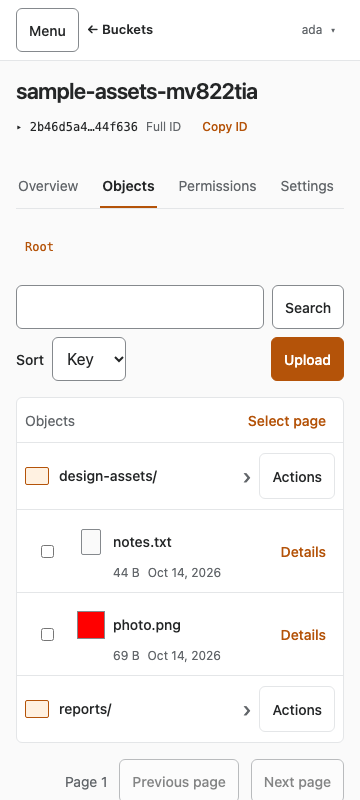
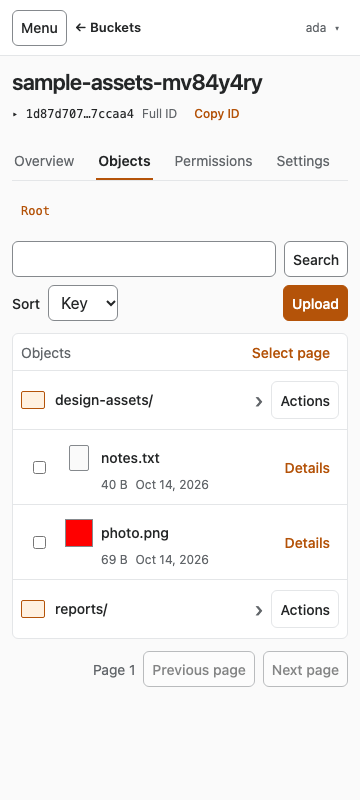
Refresh compact interface screenshots and token workflow guidance

diff --git a/docs/wiki/Admin-tokens.md b/docs/wiki/Admin-tokens.md
@@ -16,12 +16,14 @@ Open **Admin tokens** and inspect **This server**. The panel shows the current t
 
 The newly issued secret is available once. Closing the dialog removes it from the page, and it cannot be retrieved later. If it is lost, create a replacement token and revoke the unusable one.
 
+Use **Filter scope** to match group names or endpoint names without regard to case. Scroll within the compact scope list to reach more endpoints. The selected count includes scopes hidden by the filter; filtering does not clear selections. A group checkbox selects or clears the complete group, and **All** selects or clears every endpoint, regardless of the filter.
+
 Choosing **All** or every endpoint produces full administrative access and displays a warning. Token-management endpoints can themselves confer powerful access; choose them only when the consumer needs to administer tokens.
 
 ## Update or delete a token
 
 Find the token using **Filter admin tokens** and **Sort**. Filtering and sorting apply to the current page; use **Previous** and **Next** for additional pages.
 
-Open its **Actions** and choose **Edit**. Change name, expiration, and scope, then choose **Update token** and review the replacement confirmation. This updates those fields; it does not display a new secret.
+Open its **Actions** and choose **Edit**. The editor brings **Name** into view and focuses it. Change name, expiration, and scope, then choose **Update token** and review the replacement confirmation. This updates those fields; it does not display a new secret. Choose **Cancel** to close the editor and return focus to that token's **Edit** action.
 
 Use **Actions → Delete** and confirm to revoke a token. Before removing or restricting the token used by this UI server, provision its replacement and update the server's configuration. Otherwise later Garage admin operations can fail. Configuration-sourced tokens are identified in the list; Garage determines which token mutations are allowed.

diff --git a/docs/images/README.md b/docs/images/README.md
@@ -1,10 +1,10 @@
 # README screenshots
 
-These are actual Garage UI browser captures from October 14, 2026, connected to a local test Garage v2.4.1 instance. The captured build is commit `137ddc2`. The sample bucket and four stored files are synthetic fixtures: `notes.txt`, `photo.png`, `reports/weekly.csv`, and `design-assets/palette.txt`.
+These are actual Garage UI browser captures from October 14, 2026, connected to a local test Garage v2.4.1 instance. The captured build is commit `a6382e0`. The sample bucket and four stored files are synthetic fixtures: `notes.txt`, `photo.png`, `reports/weekly.csv`, and `design-assets/palette.txt`.
 
 | Image | Viewport | View |
 |---|---|---|
 | `objects-desktop.png` | 1280 × 800 px | Object browser on desktop |
-| `objects-mobile.png` | 360 × 800 px | Object browser with four complete records on the first screen |
+| `objects-mobile.png` | 360 × 800 px | Object browser with two folders and two objects fully visible on the first screen |
 
 The same fixture was also checked at 390 × 800 px. Captures use the English locale and Light theme. The original PNG files were copied without content edits or recompression; the sample objects, bucket, and key were deleted after capture. The mobile image is displayed at 240 px wide in the project README. Captures contain no credentials, loading or error notices, or private cluster addresses.
